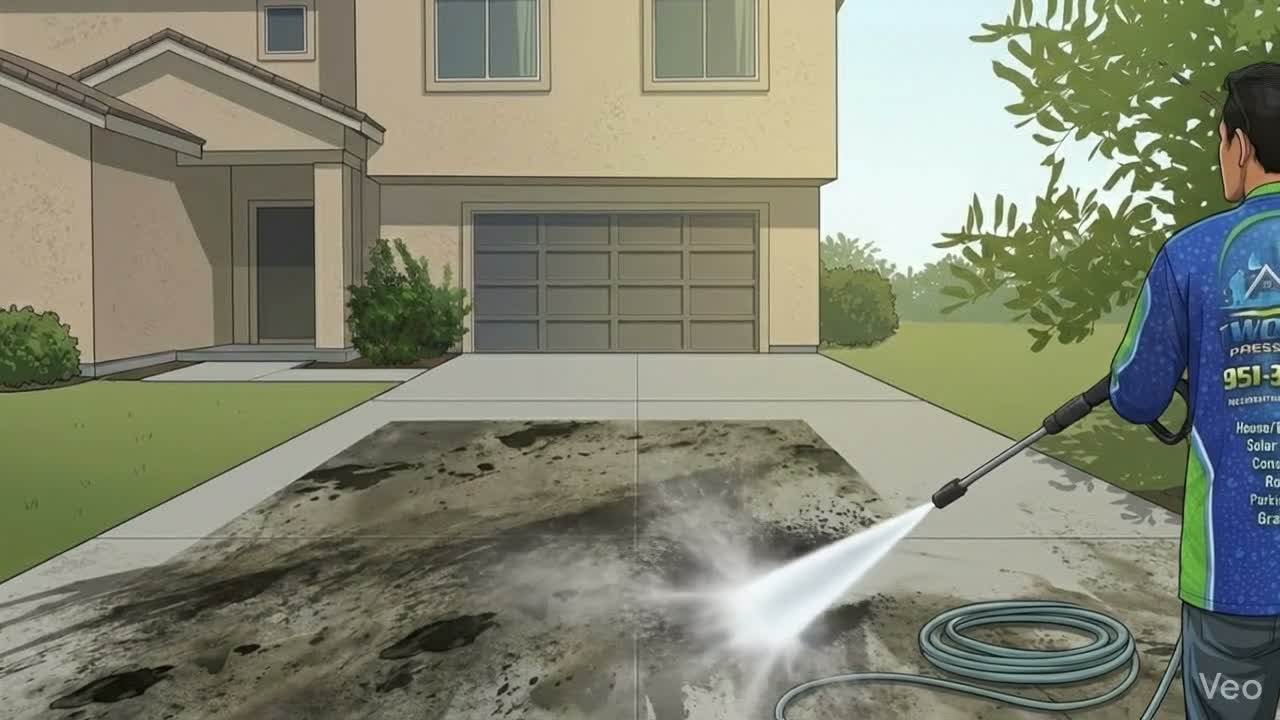
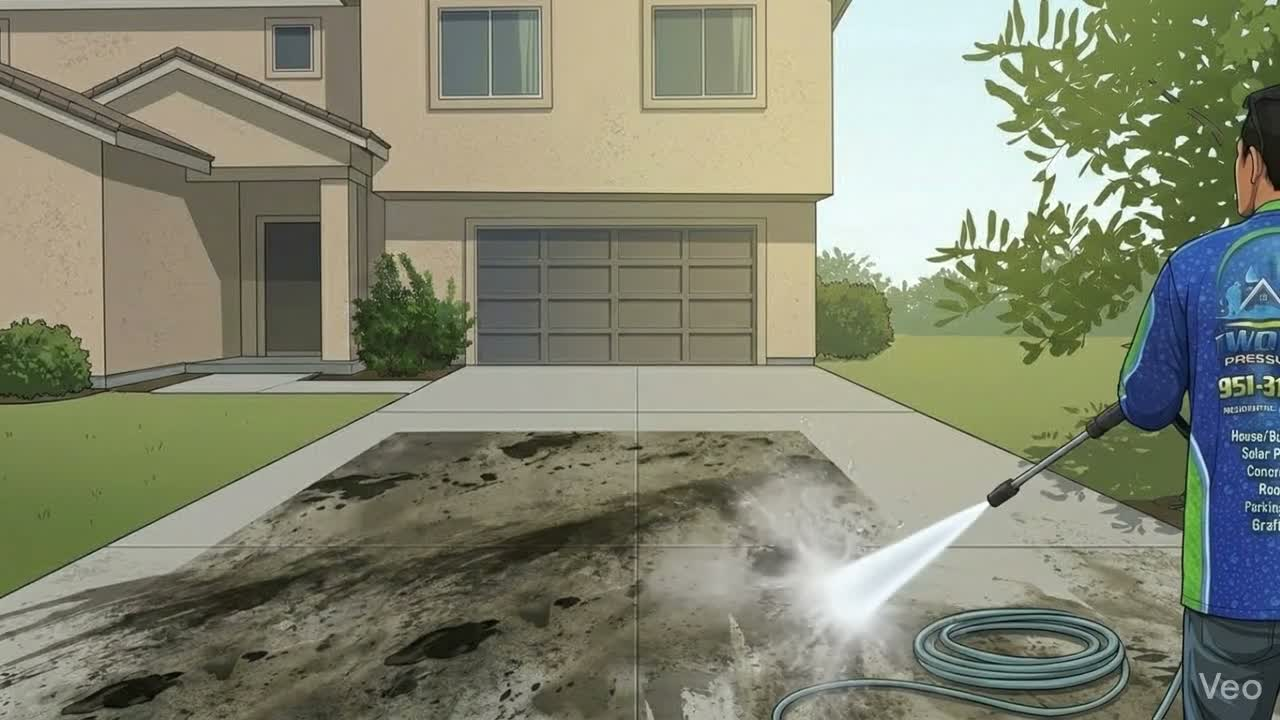
fix(hero): show character on mobile via object-position 85% center

diff --git a/src/components/Hero.tsx b/src/components/Hero.tsx
@@ -95,19 +95,27 @@ export default function Hero() {
       {/* ── Background: video with poster fallback ── */}
       <div className="absolute inset-0 z-0">
         {/* FIX 2: videoFailed hides the video and uses poster as bg via CSS class */}
+        {/*
+          object-position:
+            mobile  → 85% center  (shifts right so the character on the right
+                                   edge of the 16:9 frame stays in view on
+                                   narrow portrait screens ~390-430 px)
+            md+     → center center (full-width desktop shows the whole frame)
+        */}
         <video
           ref={videoRef}
           muted
           playsInline
           autoPlay
           loop
-          // FIX 1: poster shown by iOS before autoplay kicks in
           poster="/hero-poster.jpg"
-          // FIX 1: preload="auto" gives the browser the best autoplay chance
           preload="auto"
-          className={`absolute inset-0 w-full h-full object-cover object-center transition-opacity duration-700 ${
+          className={`absolute inset-0 w-full h-full object-cover transition-opacity duration-700 ${
             videoFailed ? "opacity-0 pointer-events-none" : "opacity-100"
           }`}
+          style={{
+            objectPosition: "85% center",
+          }}
         >
           <source src="/2sunshero.mp4" type="video/mp4" />
         </video>
@@ -119,7 +127,8 @@ export default function Hero() {
             src="/hero-poster.jpg"
             alt=""
             aria-hidden="true"
-            className="absolute inset-0 w-full h-full object-cover object-center"
+            className="absolute inset-0 w-full h-full object-cover"
+            style={{ objectPosition: "85% center" }}
           />
         )}
 